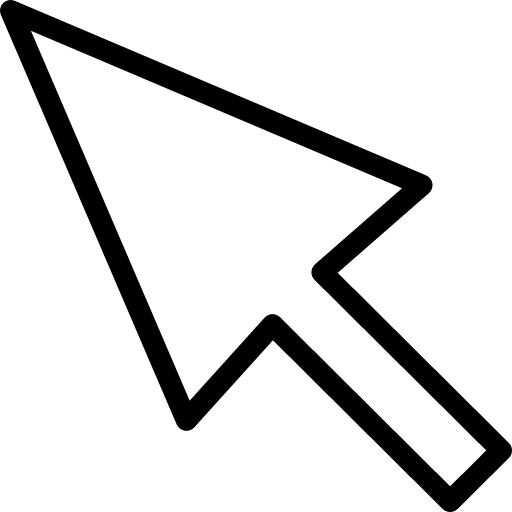
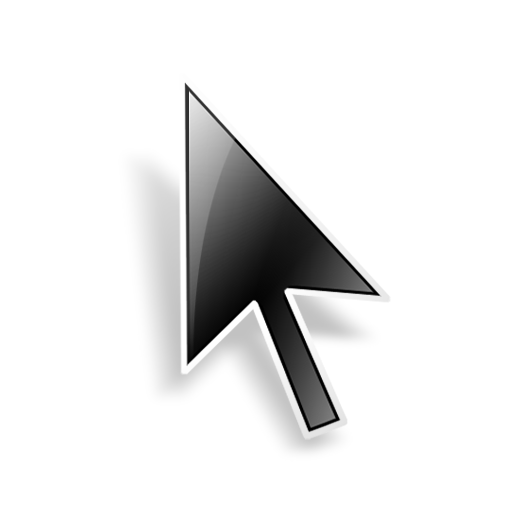
更换鼠标图片

Changed region(s): [[0.0, 0.0, 1.0, 1.0]]

diff --git a/web/index.html b/web/index.html
@@ -11,8 +11,10 @@
     }
     #mouse { 
         position: absolute;
-        width: 15px;
-        height: 15px;
+        width: 20px;
+        height: 20px;
+        margin-left: -7px;
+        margin-top: -3px;
     }
     #screen {
         position: absolute;
@@ -104,6 +106,5 @@
 
 </script>
 <!--
-TODO: 鼠标图片换一个, 不要中间透明的.
 TODO: 鼠标样式推送显示
 -->
